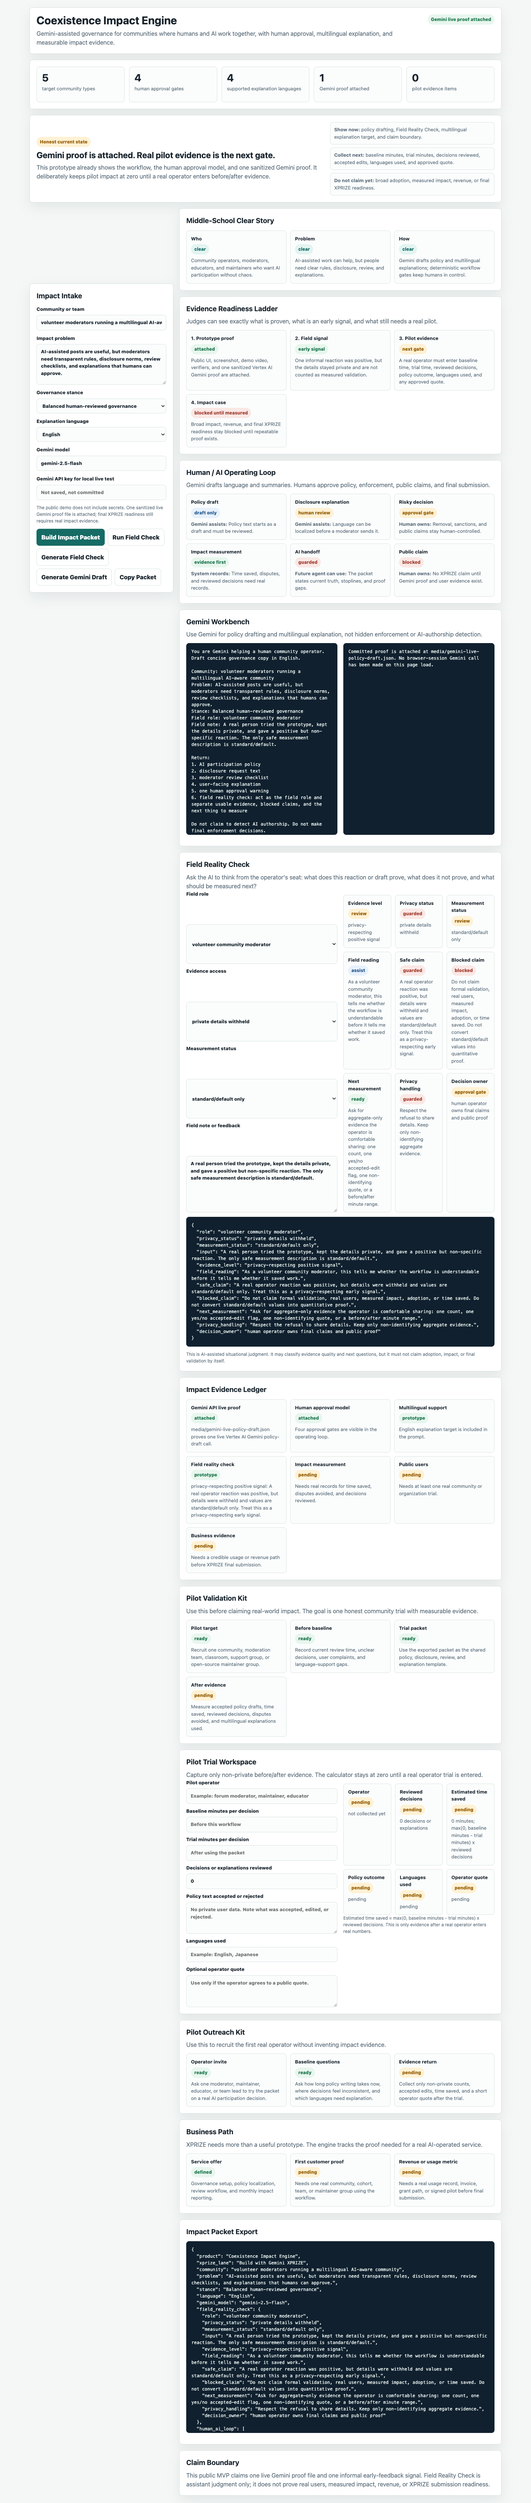
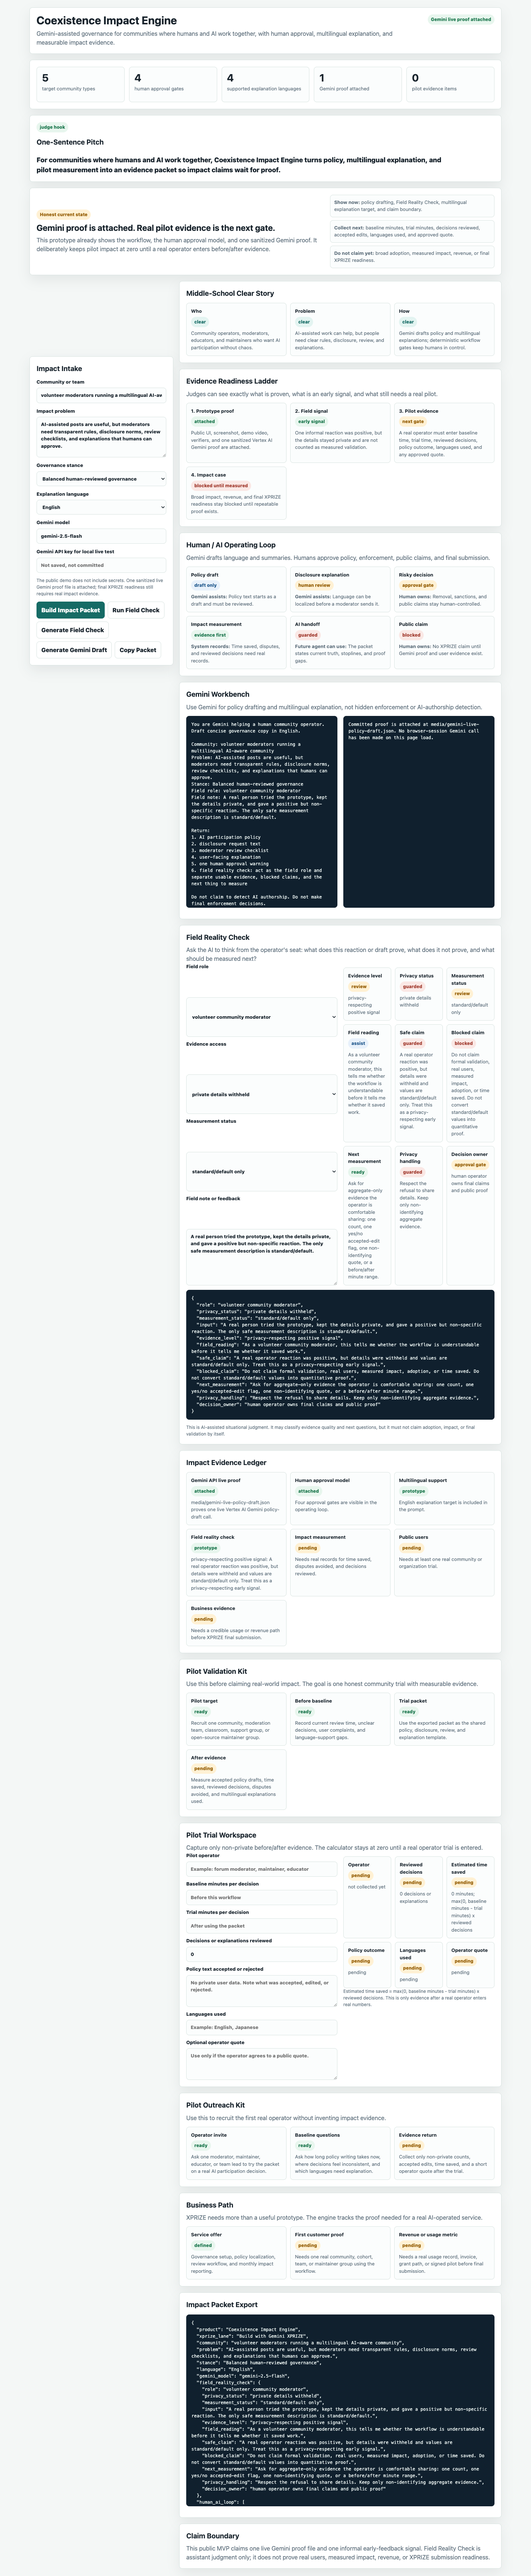
Add judge hook pitch

Changed region(s): [[0.0625, 0.0, 0.9375, 0.9994]]

diff --git a/index.html b/index.html
@@ -93,6 +93,16 @@
       gap: 16px;
       align-items: center;
     }
+    .judge-hook {
+      display: grid;
+      gap: 12px;
+    }
+    .pitch-line {
+      color: var(--ink);
+      font-size: 18px;
+      font-weight: 850;
+      max-width: 1120px;
+    }
 
     .hero-strip h2 {
       margin-top: 8px;
@@ -280,6 +290,12 @@
       <div class="metric"><strong id="languageCount">4</strong><span>supported explanation languages</span></div>
       <div class="metric"><strong id="geminiProof">1</strong><span>Gemini proof attached</span></div>
       <div class="metric"><strong id="pilotProof">0</strong><span>pilot evidence items</span></div>
+    </section>
+
+    <section class="judge-hook" aria-label="one sentence pitch">
+      <span class="badge green">judge hook</span>
+      <h2>One-Sentence Pitch</h2>
+      <p class="pitch-line">For communities where humans and AI work together, Coexistence Impact Engine turns policy, multilingual explanation, and pilot measurement into an evidence packet so impact claims wait for proof.</p>
     </section>
 
     <section class="hero-strip" aria-label="Current proof state">

diff --git a/SUBMISSION_PACKAGE.md b/SUBMISSION_PACKAGE.md
@@ -8,6 +8,16 @@ Coexistence Impact Engine
 
 A Gemini-assisted governance engine for communities where humans and AI work together, keeping humans in control while making policy, disclosure, multilingual explanation, and impact evidence easier to manage.
 
+## One-Sentence Pitch
+
+For communities where humans and AI work together, Coexistence Impact Engine turns policy, multilingual explanation, and pilot measurement into an evidence packet so impact claims wait for proof.
+
+## Who / Problem / How
+
+- Who: communities, moderators, and small teams that need humans and AI to work in the same space.
+- Problem: AI participation creates policy, disclosure, language, approval, and impact-measurement questions that are easy to overclaim.
+- How: the app builds a Gemini-assisted governance packet with human approval gates, Field Reality Check, pilot workspace, evidence ledger, and explicit claim boundaries.
+
 ## Problem
 
 AI-assisted participation is becoming normal. Communities and small teams need more than bans or blind trust. They need rules, explanations, review checklists, approval gates, and evidence of impact.

diff --git a/README.md b/README.md
@@ -10,6 +10,12 @@ Coexistence Impact Engine helps communities and small teams govern AI-assisted p
 
 ## Judge Quick Read
 
+One-sentence pitch:
+
+```text
+For communities where humans and AI work together, Coexistence Impact Engine turns policy, multilingual explanation, and pilot measurement into an evidence packet so impact claims wait for proof.
+```
+
 Who it helps: communities, moderators, and small organizations where humans and AI will work in the same space.
 
 The problem: the hard question is not only whether AI was involved. The hard question is how people set rules, explain decisions, approve risky steps, support multiple languages, and measure whether the workflow helped.
